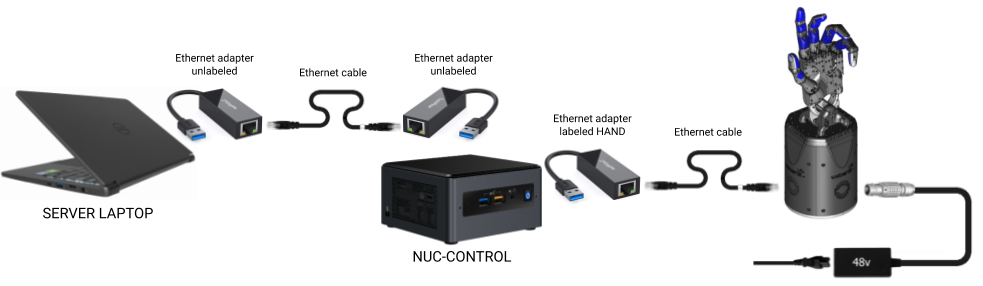
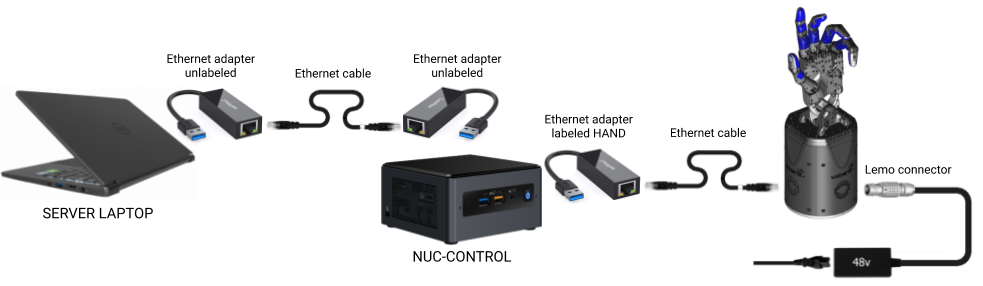
Updating

diff --git a/docs/user_guide/1_2_setting_up_a_real_hand.rst b/docs/user_guide/1_2_setting_up_a_real_hand.rst
@@ -8,7 +8,11 @@ Unimanual system
 Connecting Cables
 ------------------
 
-Connect the Ethernet cable to the hand's Ethernet socket, and connect the other end to the USB->Ethernet adapter with a label ``HAND``. Then, connect the USB end of the adapter to any of the USB ports in the NUC. Next, connect one of the USB->Ethernet adapters to another USB port on the NUC and the other adapter to any of the ports in your client PC (provided by Shadow or a custom one). Finally, connect the two adaptors together with an Ethernet cable.
+* Connect the Ethernet cable to the hand's Ethernet socket, and connect the other end to the USB->Ethernet adapter with a label ``HAND``.
+* Connect the USB end of the adapter to any of the USB ports in the NUC.
+* Connect one of the USB->Ethernet adapters to another USB port on the NUC and the other adapter to any of the ports in your client PC (provided by Shadow or a custom one).
+* Connect the two adaptors together with an Ethernet cable.
+
 You have been supplied with medium length Ethernet leads, but if you require a different length, you can simply use a standard commercial Ethernet Cat 5 cable, available from most computer parts suppliers. If you require internet connection in the laptop, connect an ethernet cable providing external internet connection to the back of the laptop, to an ethernet port labelled ``INTERNET``.
 
 .. figure:: ../img/connecting_the_hand.png
@@ -18,7 +22,9 @@ You have been supplied with medium length Ethernet leads, but if you require a d
 
     Connections diagram
 
-**Power**: Connect the external power supply to the hand using the metal Lemo connector, making sure to line up the red dots. If you require a longer or shorter cable, please contact the Shadow Robot Company.
+.. Source to edit the diagram: https://docs.google.com/drawings/d/1IOYFVruiCEKmIZpWwnUS8AJ-SWSNJJGQQxWrUoBa2Hk/edit?usp=sharing
+
+* Finally, connect the external power supply to the hand using the metal Lemo connector, making sure to line up the red dots. If you require a longer or shorter cable, please contact the Shadow Robot Company.
 
 Mounting the hand (if you have an arm)
 --------------------------------------
